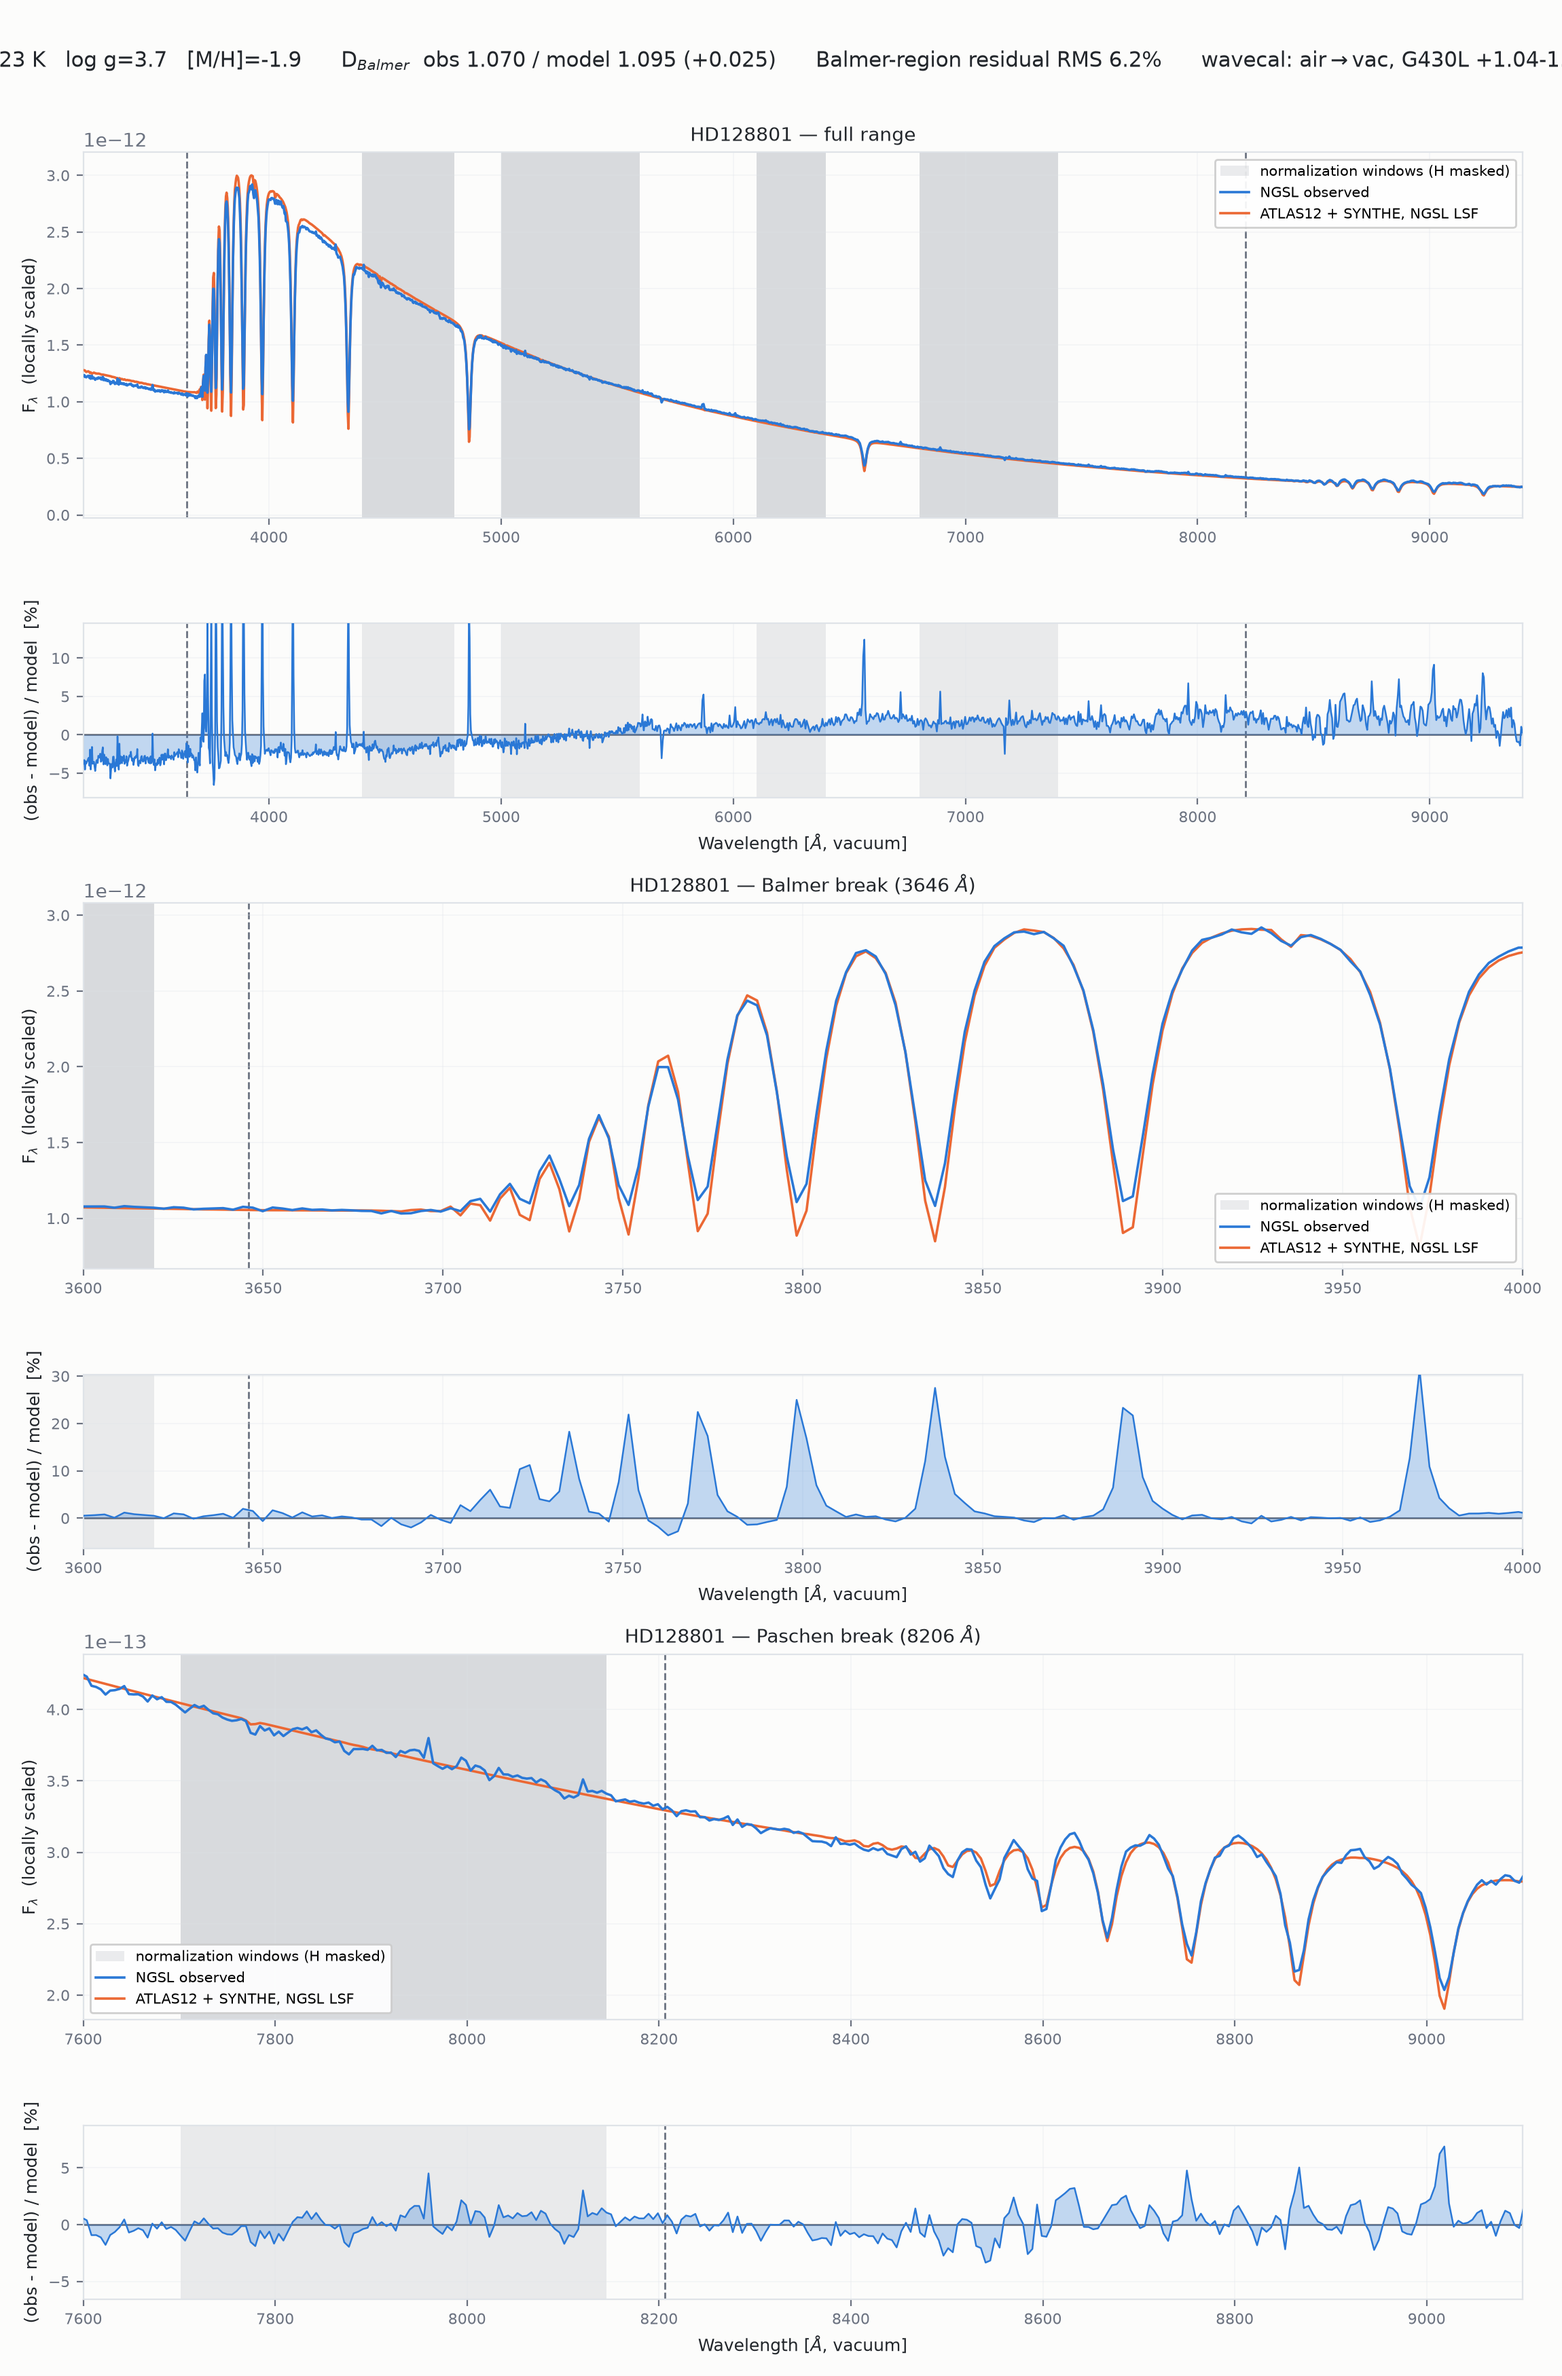
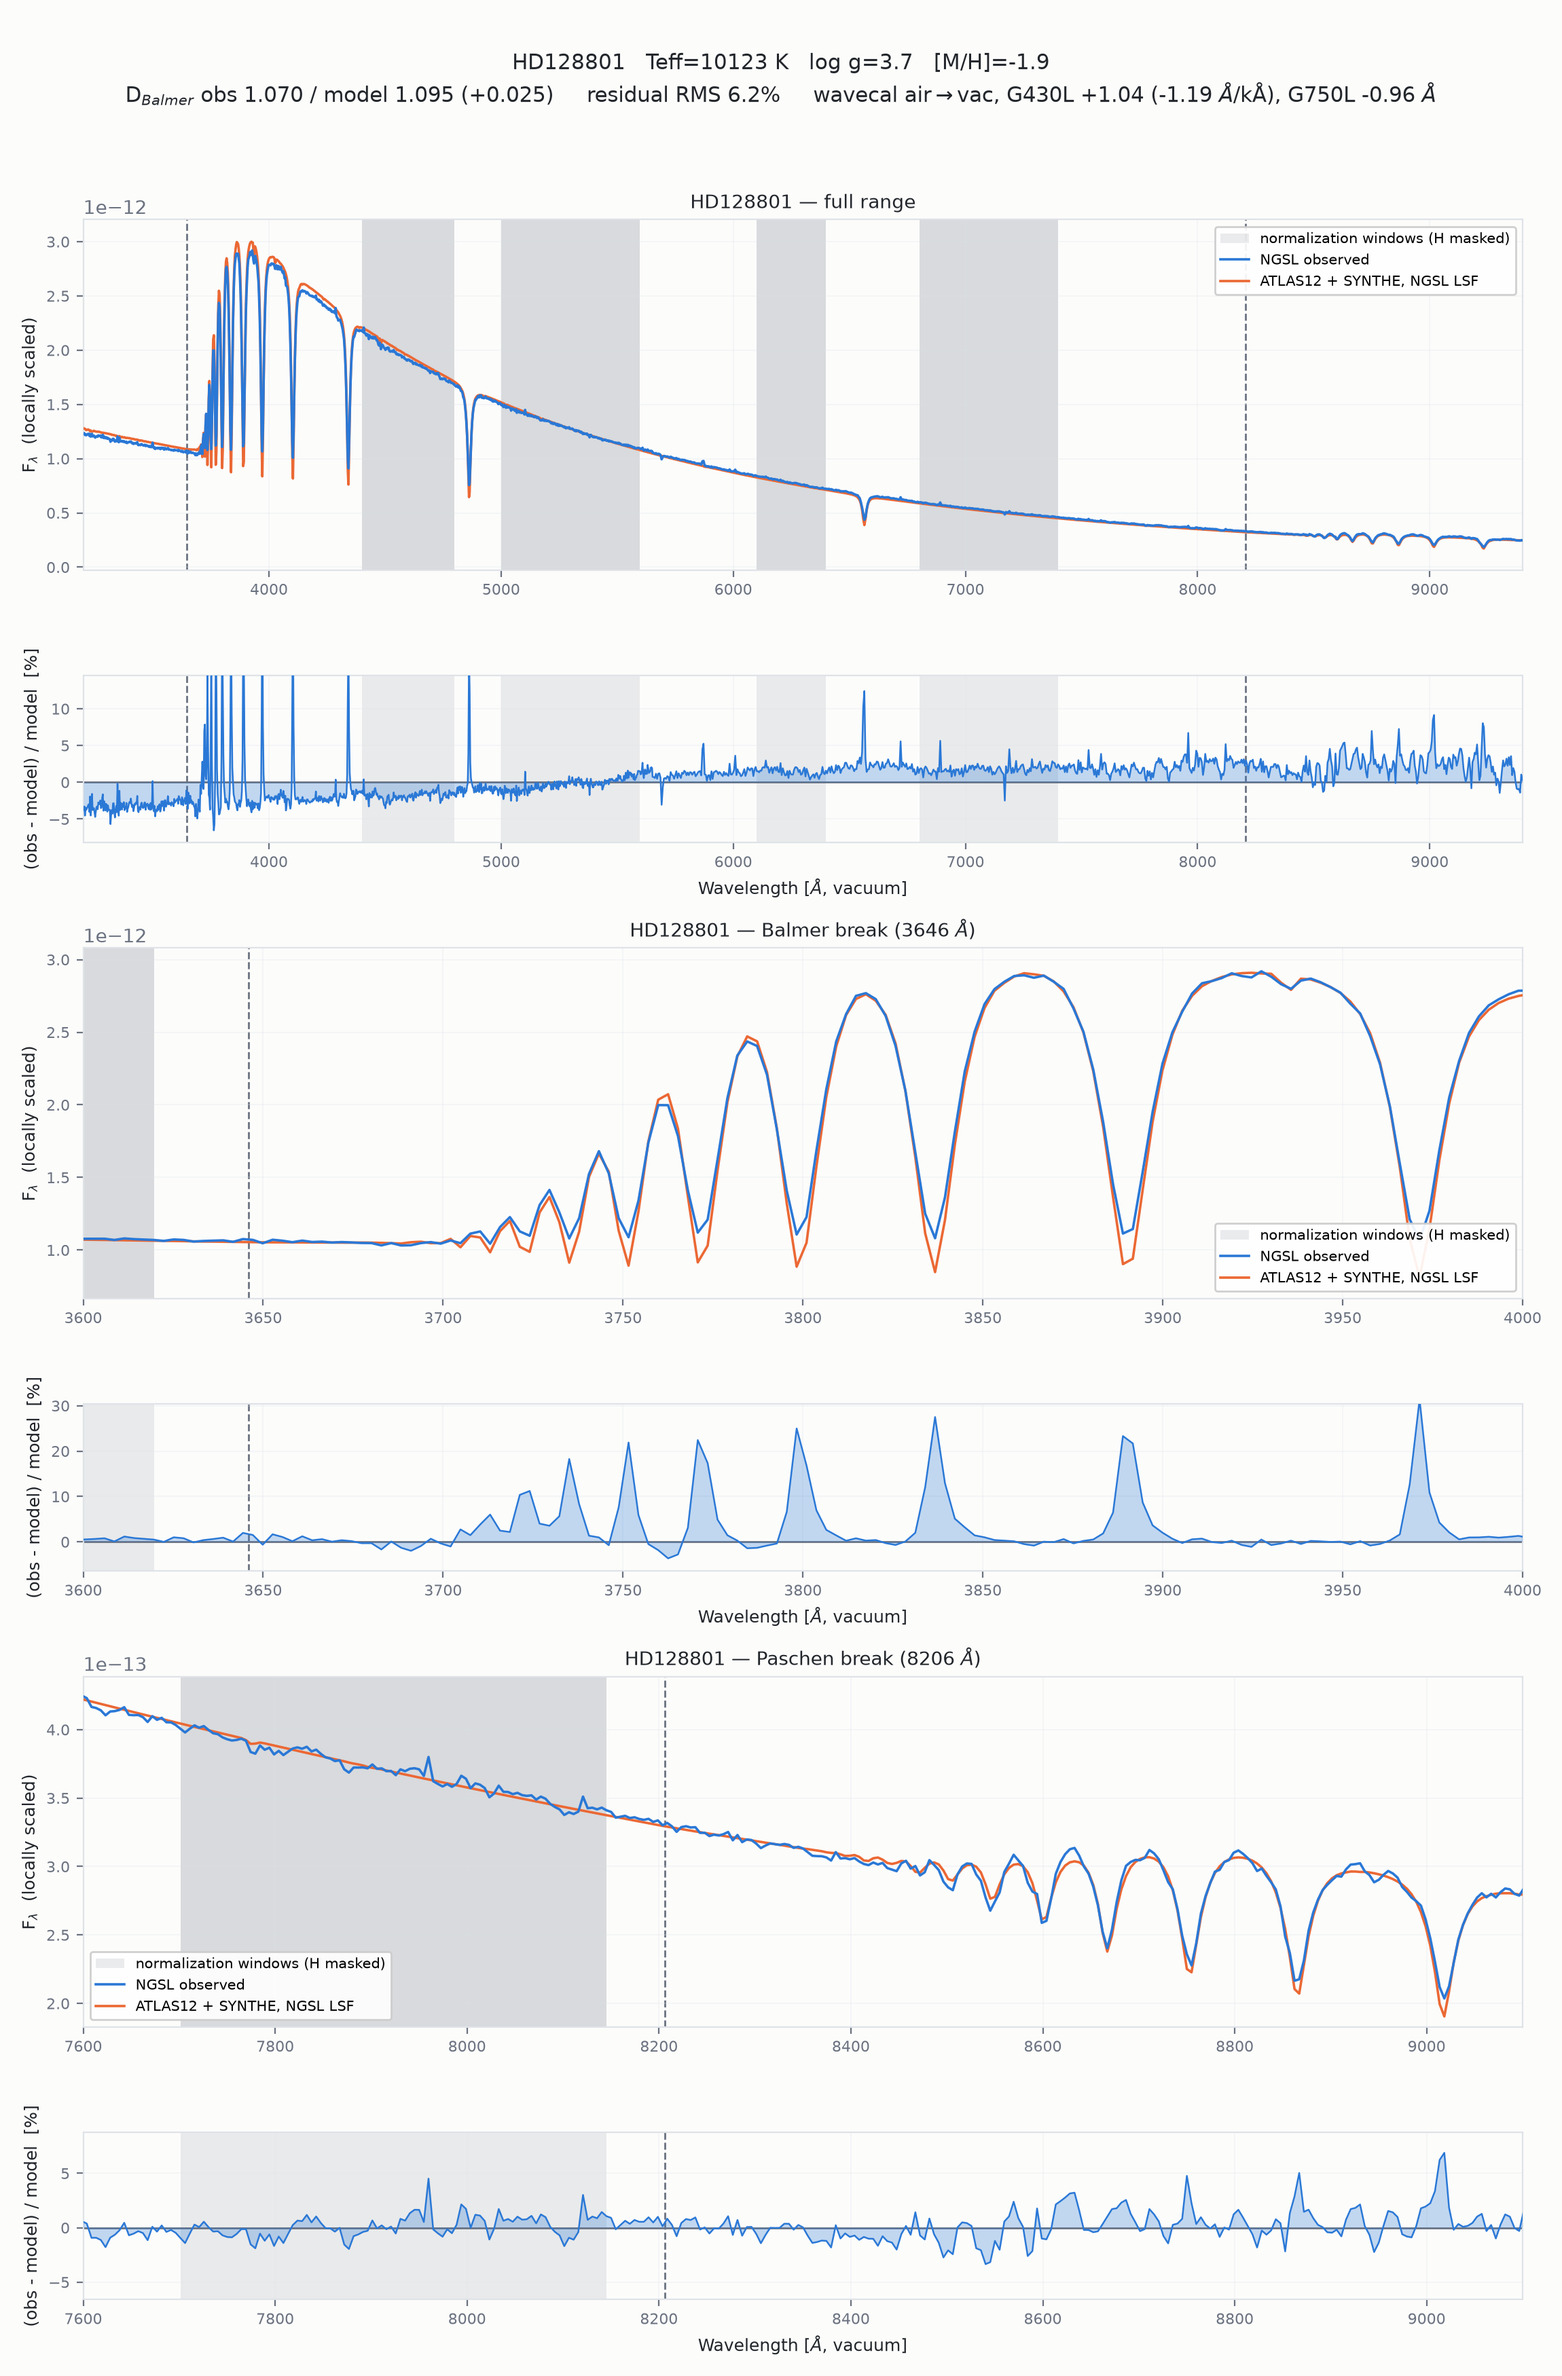
Split comparison-figure titles over two lines
The single-line suptitle overflowed the figure width and was being clipped.
Now line 1 identifies the star and its parameters, line 2 carries what was
measured, with linespacing and the tight_layout rect adjusted for the extra
line.

Also disambiguates the wavecal coefficients in the NGSL titles: they printed
as "G430L +0.70-0.71/kA", which reads as a range rather than a constant and a
slope, and now print as "G430L +0.70 (-0.71 A/kA)".

diff --git a/scripts/plot_model_vs_obs.py b/scripts/plot_model_vs_obs.py
@@ -180,18 +180,21 @@ def make_figure(star, cat):
     r = cat[star]
     def _wc(g):
         c = WAVECAL[(star, g)]
+        # separate the two coefficients: "+0.70-0.71/kA" reads as a range
         return (f'{g} {c["a"]:+.2f}' +
-                (f'{c["b"]*1000:+.2f}/kA' if c['b'] else ''))
+                (f' ({c["b"]*1000:+.2f} $\\AA$/kÅ)' if c['b'] else ''))
     wc = ', '.join(_wc(g) for g in ('G430L', 'G750L') if (star, g) in WAVECAL)
+    # Two lines: what the star is, then what was measured. One line overflows
+    # the figure width and gets clipped.
     fig.suptitle(
-        f'{star}:  Teff={float(r["teff_ngsl_K"]):.0f} K   log g={r["logg_ngsl"]}   '
-        f'[M/H]={float(r["m_h_ngsl"]):+.1f}      '
-        f'D$_{{Balmer}}$  obs {d_obs:.3f} / model {d_mod:.3f} ({d_mod-d_obs:+.3f})'
-        f'      Balmer-region residual RMS {rms:.1f}%'
-        f'      wavecal: air$\\to$vac, {wc} $\\AA$'
-        + (f'   [model only {lo:.0f}-{hi:.0f} $\\AA$]' if narrow else ''),
-        fontsize=11, color=INK)
-    fig.tight_layout(rect=[0, 0, 1, 0.975])
+        f'{star}   Teff={float(r["teff_ngsl_K"]):.0f} K   log g={r["logg_ngsl"]}   '
+        f'[M/H]={float(r["m_h_ngsl"]):+.1f}\n'
+        f'D$_{{Balmer}}$ obs {d_obs:.3f} / model {d_mod:.3f} ({d_mod-d_obs:+.3f})'
+        f'     residual RMS {rms:.1f}%'
+        f'     wavecal air$\\to$vac, {wc} $\\AA$'
+        + (f'     [model only {lo:.0f}-{hi:.0f} $\\AA$]' if narrow else ''),
+        fontsize=11, color=INK, linespacing=1.5)
+    fig.tight_layout(rect=[0, 0, 1, 0.962])
     out = ROOT / 'figures' / f'model_vs_obs_{star}.png'
     fig.savefig(out, dpi=200, facecolor=SURFACE)
     plt.close(fig)

diff --git a/scripts/plot_uves_vs_model.py b/scripts/plot_uves_vs_model.py
@@ -164,15 +164,17 @@ def make_figure(star, p):
             rms = np.nanstd(resid[inw]) * 100
             cover.append(float(np.mean(gap_free(fo)[(wo > xlim[0]) & (wo < xlim[1])])))
 
+    # Two lines: what the star is, then what was measured. One line overflows
+    # the figure width and gets clipped.
     fig.suptitle(
-        f'{star}:  Teff={float(p["teff"]):.0f} K   log g={float(p["logg"]):.2f}   '
+        f'{star}   Teff={float(p["teff"]):.0f} K   log g={float(p["logg"]):.2f}   '
         f'[Fe/H]={float(p["fe_h"]):+.2f}   v sin i={vsini:.0f} km/s   '
-        f'E(B-V)={ebv:.3f}      Balmer-region residual RMS {rms:.1f}%'
-        f'      Balmer coverage {100*cover[0]:.0f}%'
-        + ('   [GAPS: {:.0f}% of range missing]'.format(100 * gapfrac)
+        f'E(B-V)={ebv:.3f}\n'
+        f'residual RMS {rms:.1f}%     Balmer coverage {100*cover[0]:.0f}%'
+        + ('     [GAPS: {:.0f}% of full range missing]'.format(100 * gapfrac)
            if gapfrac > 0.02 else ''),
-        fontsize=11, color=INK)
-    fig.tight_layout(rect=[0, 0, 1, 0.975])
+        fontsize=11, color=INK, linespacing=1.5)
+    fig.tight_layout(rect=[0, 0, 1, 0.962])
     out = ROOT / 'figures' / f'uves_vs_model_{star}.png'
     fig.savefig(out, dpi=200, facecolor=SURFACE)
     plt.close(fig)
